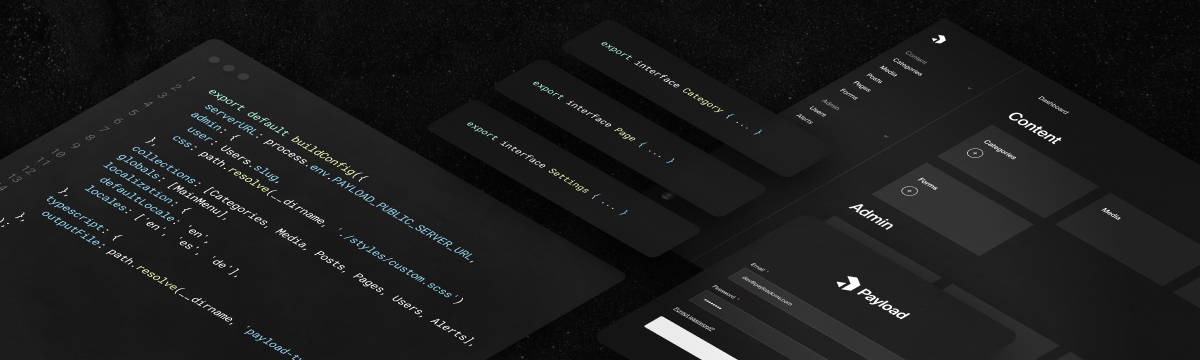
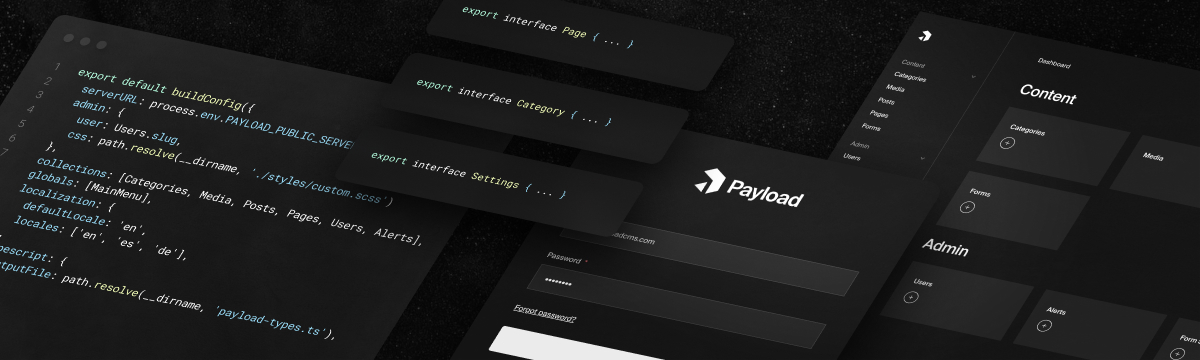
removes benefits h3 in favor of benefits image, reorders helpful links

diff --git a/README.md b/README.md
@@ -30,11 +30,12 @@
   <img width="100%" src="src/admin/assets/images/github-banner.jpg" alt="Payload headless CMS Admin panel built with React" />
 </a>
 <br />
+<h2>Benefits over a regular CMS</h2>
+<img width="100%" src="src/admin/assets/images/benefits-banner.jpg" alt="Payload Benefits over a regular CMS" />
+<br />
 <h3>
 <a target="_blank" href="https://payloadcms.com/docs/getting-started/what-is-payload" rel="dofollow"><strong>Explore the Docs</strong></a>&nbsp;·&nbsp;<a target="_blank" href="https://payloadcms.com/community-help" rel="dofollow"><strong>Community Help</strong></a>&nbsp;·&nbsp;<a target="_blank" href="https://demo.payloadcms.com/" rel="dofollow"><strong>Try Live Demo</strong></a>&nbsp;·&nbsp;<a target="_blank" href="https://github.com/payloadcms/payload/discussions/1539" rel="dofollow"><strong>Roadmap</strong></a>&nbsp;·&nbsp;<a target="_blank" href="https://www.g2.com/products/payload-cms/reviews#reviews" rel="dofollow"><strong>View G2 Reviews</strong></a>
 </h3>
-<h2>Benefits over a regular CMS</h2>
-<h3>With Payload, the possibilities are endless. Rather than hitting someone else's API you hit yours. Which means you can avoid vendor lock-in, use your own database, and truly own your data. With an extremely extensible Admin UI + backend you can build faster, and never hit a roadblock. You'll avoid microservices hell, and never touch ancient WP code ever again.</h3>
 <br />
 <a href="https://payloadcms.com/new">
   <img width="100%" src="src/admin/assets/images/cloud-cta-inline.jpg" alt="Payload headless CMS Admin panel built with React" />
